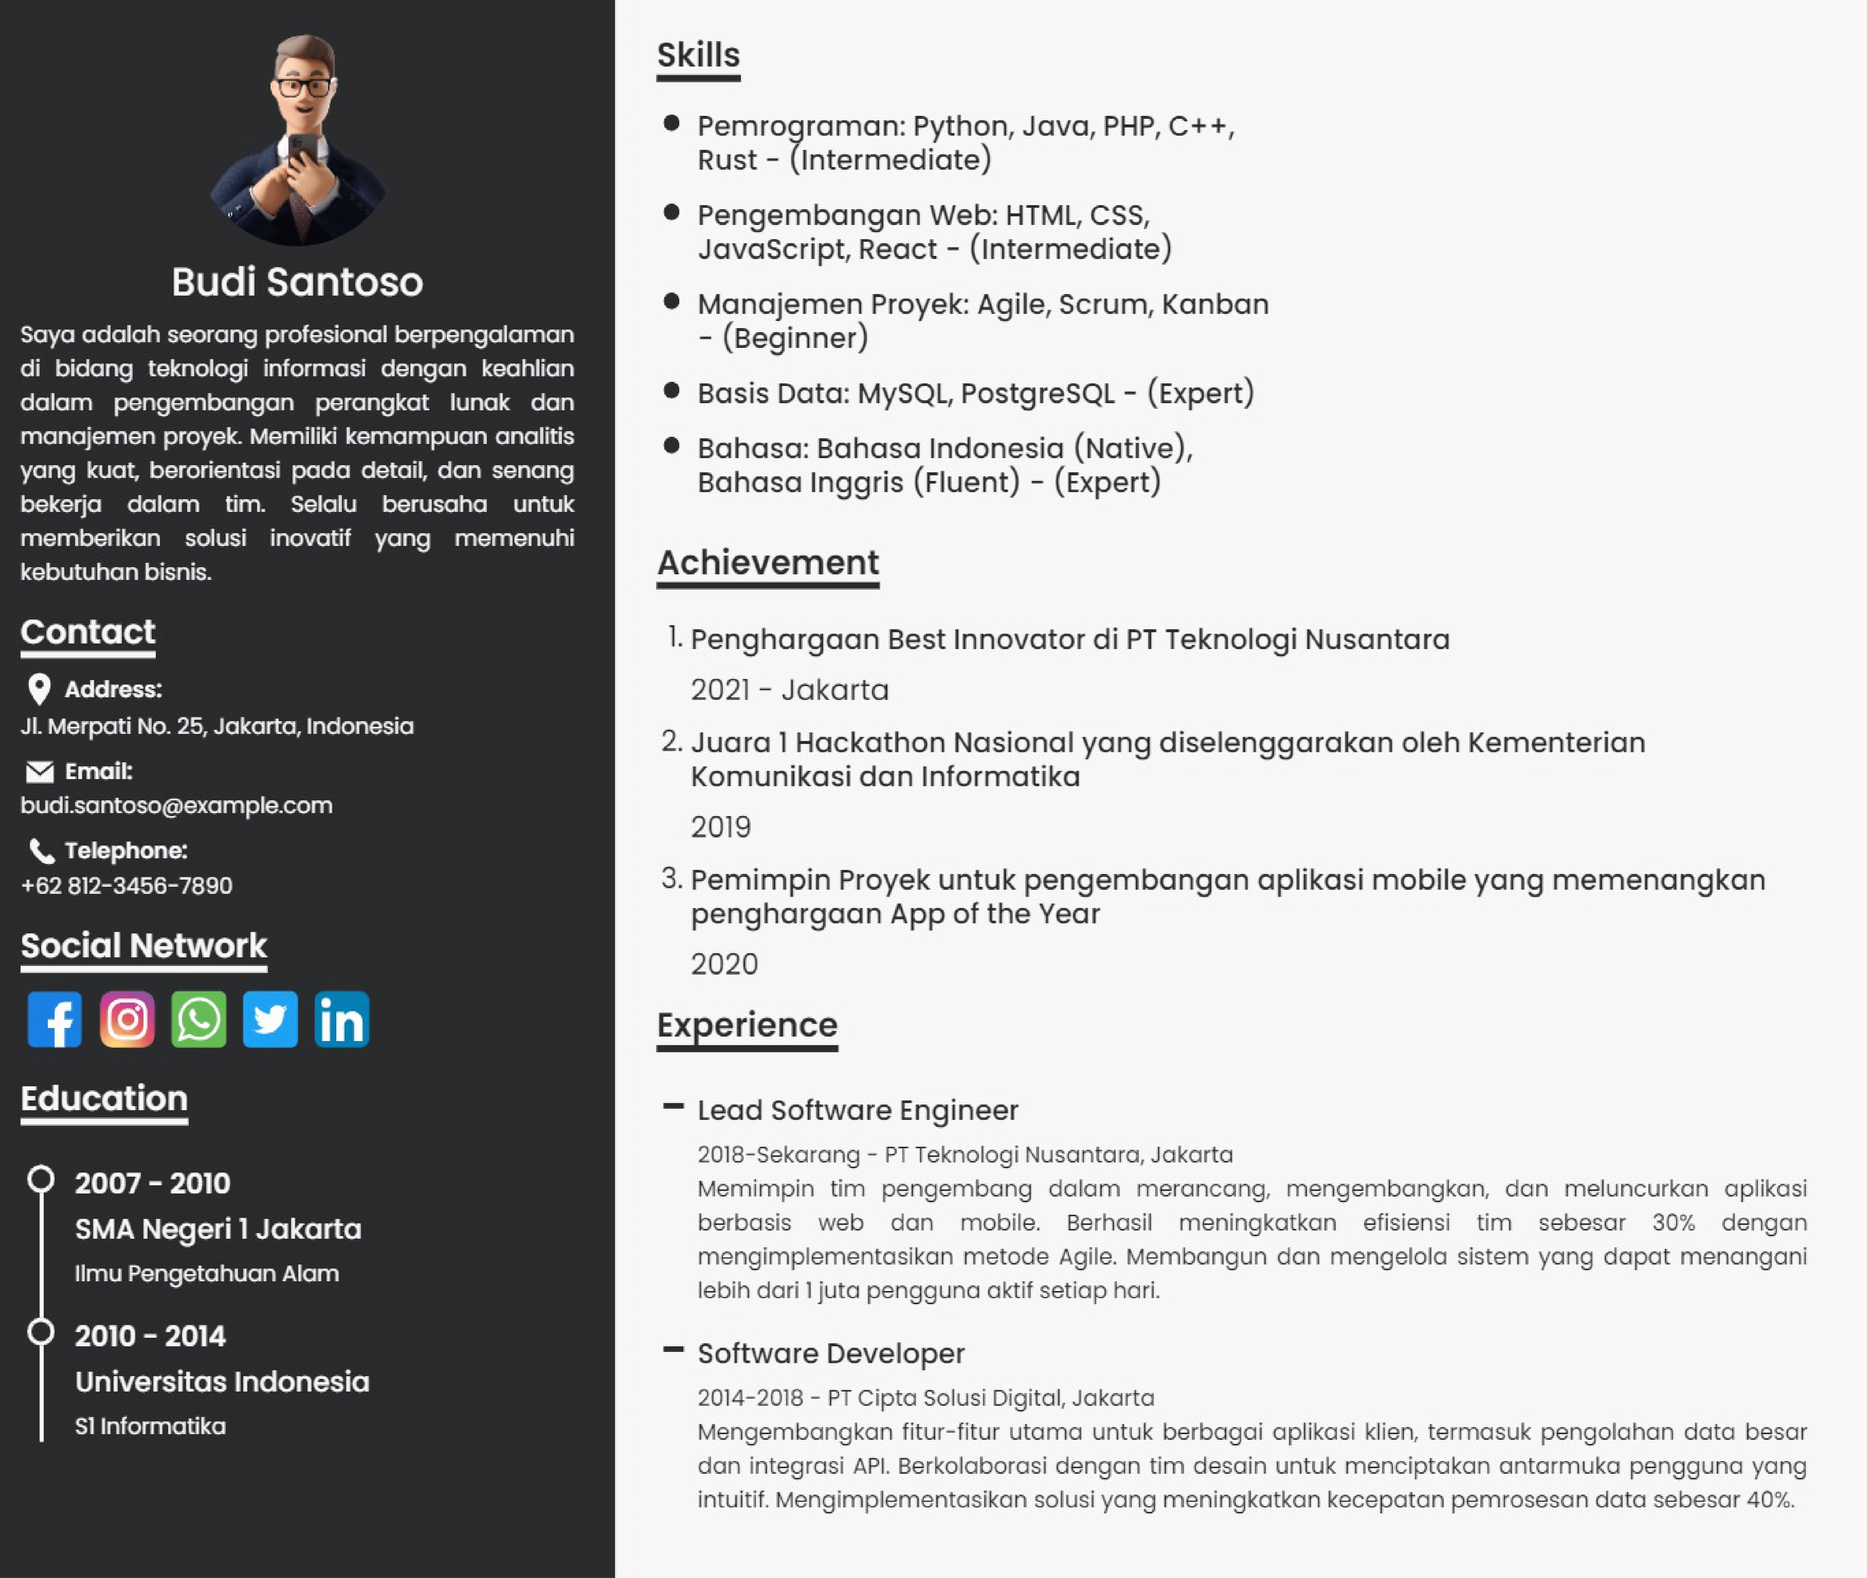
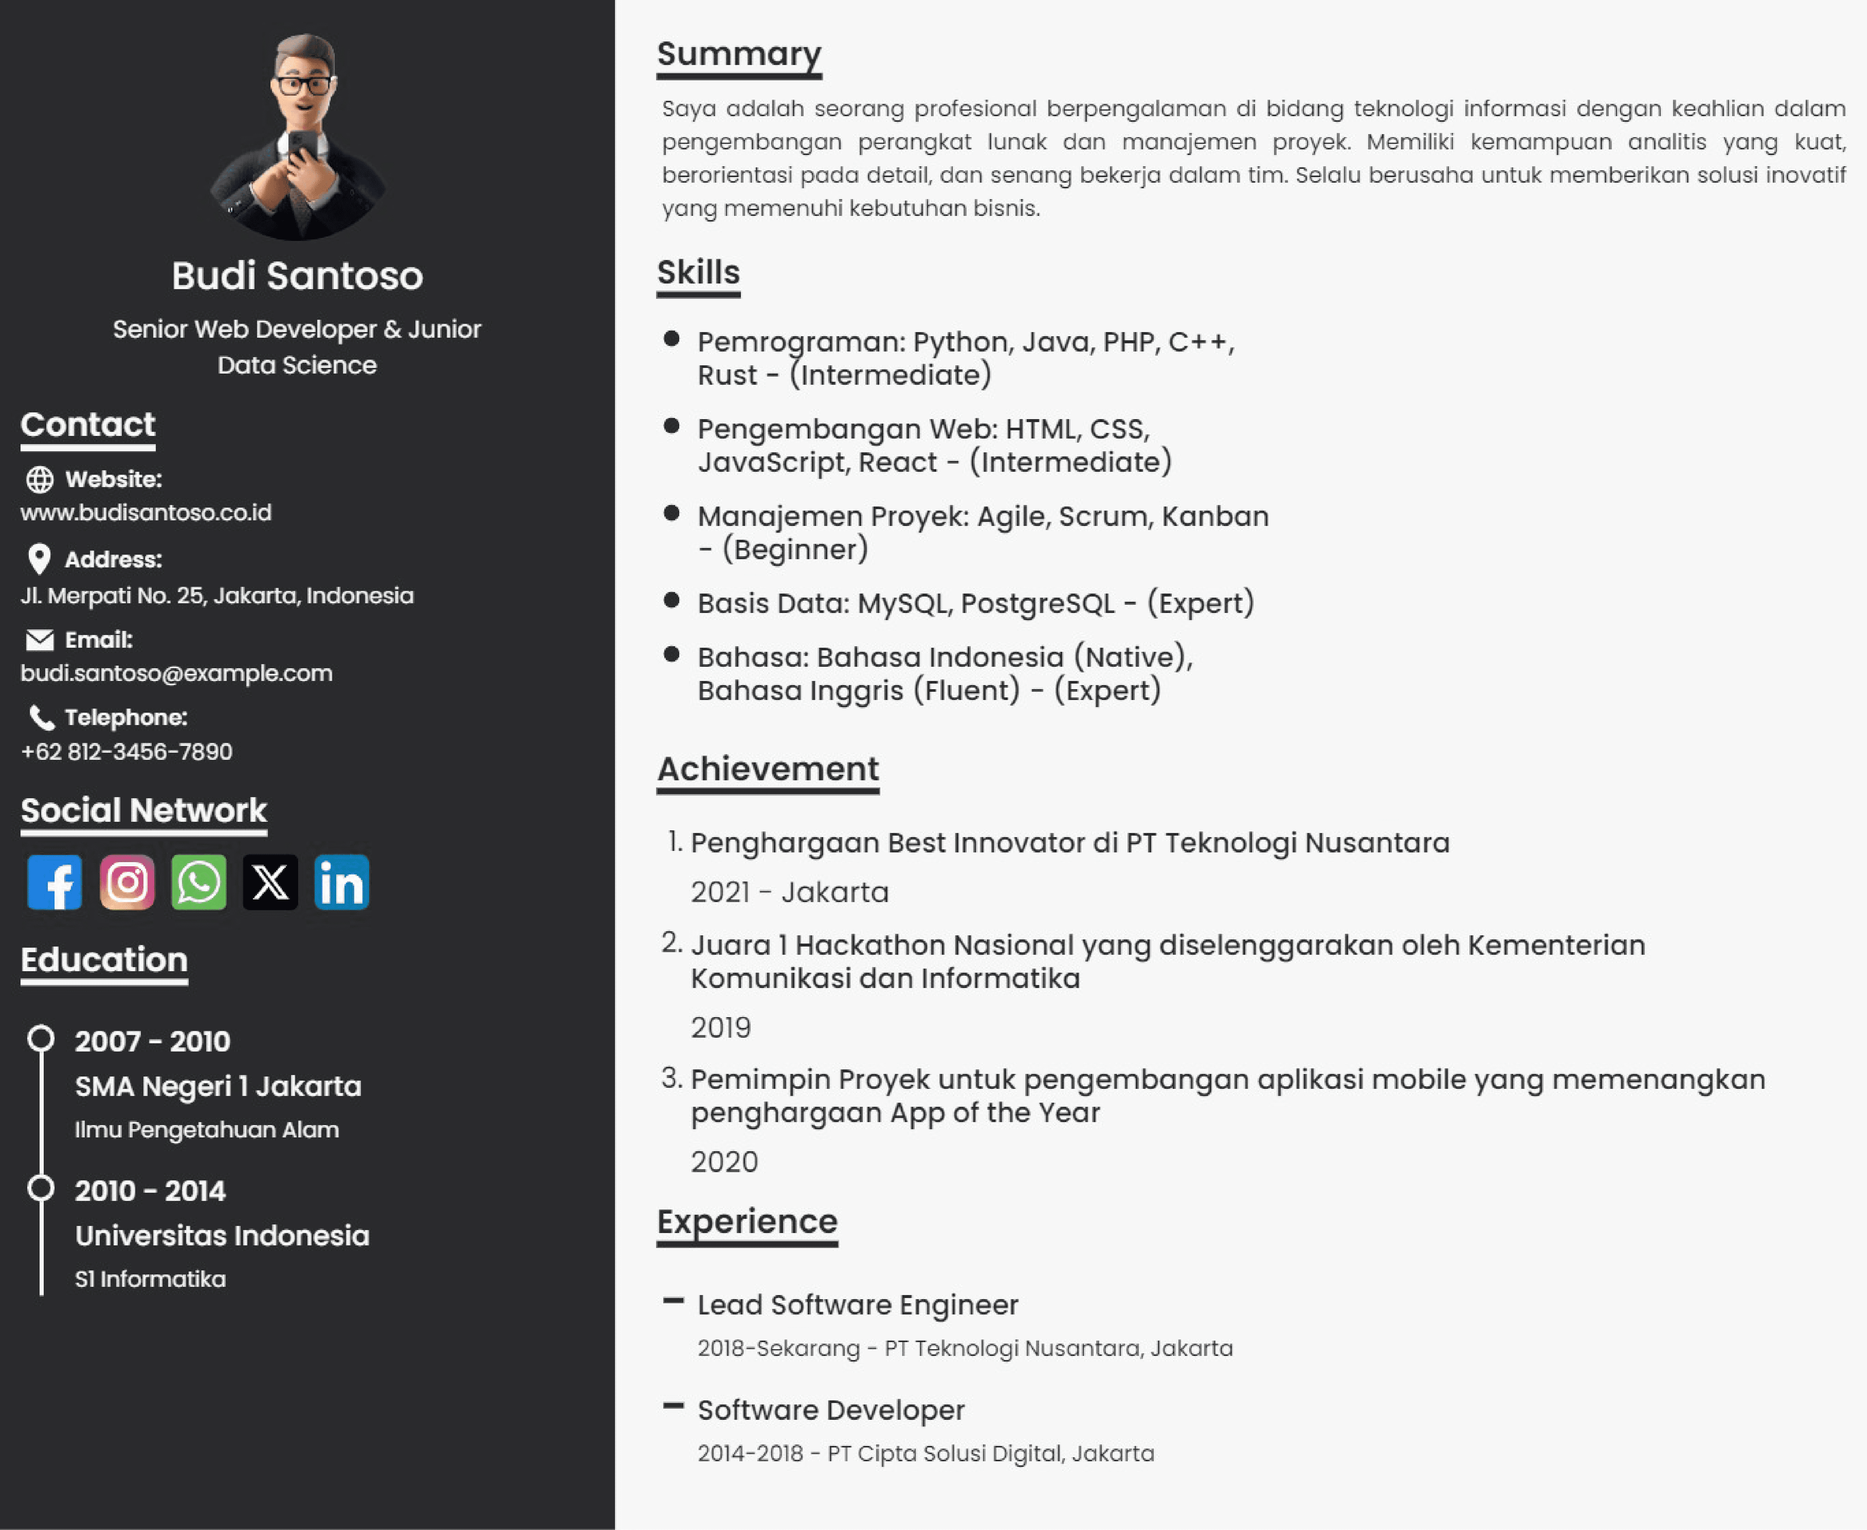
update description -> summary & vision -> career. and update example

Changed region(s): [[0.3434, 0.0312, 0.999, 0.9688], [0.0, 0.0312, 0.3122, 0.9062]]

diff --git a/show/templates/template-3.html b/show/templates/template-3.html
@@ -3,6 +3,11 @@
 {% load tags %}
 {% block 'style' %}{% static 'css/style-3.css' %}{% endblock %}
 {% block 'title' %}{{ user.first_name }} {{ user.last_name }}{% endblock %}
+{% block 'description' %}{{ data.summary }}{% endblock %}
+{% block 'og_title' %}{{ user.first_name }} {{ user.last_name }}{% endblock %}
+{% block 'og_description' %}{{ data.summary }}{% endblock %}
+{% block 'og_image' %}{{ data.photo }}{% endblock %}
+
 {% block 'attr' %}
 bg1={{ data.color|toObj:'bg-1' }}
 text1={{ data.color|toObj:'text-1' }}
@@ -17,8 +22,8 @@ id="riwayat-3"
     <div class="pt-4 my-container-2 text-center pb-2 bg-1" style="border-radius: 0 0px 10px 0">
       <img class="rounded-circle" src="{{ data.photo }}" alt="profile" width="150" height="150" data-aos="zoom-in"/>
       <span class="mt-2 h3 d-block" data-aos="fade-right">{{ user.first_name }} {{ user.last_name }}</span>
-      <p class="text-justify" data-aos="zoom-in">
-      {{ data.description }}
+      <p class="mx-auto w-75" data-aos="zoom-in" style="font-size: 1.1rem;">
+      {{ data.career }}
       </p>
     </div>
     <div class="my-container-2">
@@ -62,12 +67,12 @@ id="riwayat-3"
   </div>
   <!-- LEFT -->
   <div class="col-md-7 col-lg-8 pt-4 pb-4 my-container">
-    <!-- Visi Misi -->
-    {% if data.mision %}
-    <div id="visi-misi">
-      <h4 class="font-weight-bold">Vision</h4>
+    <!-- Summary -->
+    {% if data.summary %}
+    <div id="summary">
+      <h4 class="font-weight-bold">Summary</h4>
       <p class="text-justify pl-1 pr-1" data-aos="zoom-out">
-        {{ data.vision }}
+        {{ data.summary }}
       </p>
     </div>
     {% endif %}
@@ -116,7 +121,7 @@ id="riwayat-3"
       		<h5 data-aos="fade-left">{{ x.experience }}</h5>
       		<span class="d-block" data-aos="fade-left">{{ x.tahun }} - {{ x.tempat }}</span>
       		<p data-aos="fade-up">
-      		    {{ x.description }}
+      		    {{ x.career }}
       		</p>
             <hr />
             {% endfor %}

diff --git a/abdi/templates/career.html b/abdi/templates/career.html
@@ -1,33 +1,33 @@
 {% load static %}
-<!-- VISION -->
+<!-- Career -->
 <div>
   <h4 class="font-weight-bold">
-      Vision
-      <button class="btn btn-abdi btn-sm" data-toggle="modal" data-target="#updateVision">Edit</button>
+      Career
+      <button class="btn btn-abdi btn-sm" data-toggle="modal" data-target="#updateCareer">Edit</button>
   </h4>
   <div>
     <span class="d-block"> 
-      {% if data.vision %}
-      {{data.vision}} 
+      {% if data.career %}
+      {{data.career}} 
       {% else %}
       Tidak ada
       {% endif %}
     </span>
   </div>
   <!-- Modal -->
-  <div class="modal fade" id="updateVision" tabindex="-1" aria-labelledby="exampleModalLabel" aria-hidden="true">
+  <div class="modal fade" id="updateCareer" tabindex="-1" aria-labelledby="exampleModalLabel" aria-hidden="true">
     <div class="modal-dialog modal-dialog-centered">
       <div class="modal-content">
         <div class="modal-header">
-          <span class="modal-title h4" id="exampleModalLabel">Update Vision</span>
+          <span class="modal-title h4" id="exampleModalLabel">Update Career</span>
           <button type="button" class="close" data-dismiss="modal" aria-label="Close">
             <span aria-hidden="true">&times;</span>
           </button>
         </div>
         <div class="modal-body">
-          <form action="{% url 'update_vision' %}" method="POST" accept-charset="utf-8">
+          <form action="{% url 'update_career' %}" method="POST" accept-charset="utf-8">
             {% csrf_token %}
-            <textarea class="form-control" name="vision" id="vision" rows="8" cols="40" required="">{% if data.vision %}{{data.vision}}{% endif %}</textarea>
+            <textarea class="form-control" name="career" id="career" rows="8" cols="40" required="">{% if data.career %}{{data.career}}{% endif %}</textarea>
             <button type="submit" class="btn btn-primary mt-2">Edit</button>
         </form>
         </div>

diff --git a/show/templates/template-1.html b/show/templates/template-1.html
@@ -3,6 +3,11 @@
 {% load tags %}
 {% block 'style' %}{% static 'css/style-1.css' %}{% endblock %}
 {% block 'title' %}{{ user.first_name }} {{ user.last_name }}{% endblock %}
+{% block 'description' %}{{ data.summary }}{% endblock %}
+{% block 'og_title' %}{{ user.first_name }} {{ user.last_name }}{% endblock %}
+{% block 'og_description' %}{{ data.summary }}{% endblock %}
+{% block 'og_image' %}{{ data.photo }}{% endblock %}
+
 {% block 'attr' %}
 bg1={{ data.color|toObj:'bg-1' }}
 text1={{ data.color|toObj:'text-1' }}
@@ -17,8 +22,8 @@ id="riwayat-1"
     <div class="text-center">
       <img class="rounded-circle" src="{{ data.photo }}" alt="profile" width="150" height="150" data-aos="zoom-in"/>
       <span class="mt-2 h3 d-block" data-aos="fade-right">{{ user.first_name }} {{ user.last_name }}</span>
-      <p class="text-justify" data-aos="zoom-in">
-      {{ data.description }}
+      <p class="mx-auto w-75" data-aos="zoom-in" style="font-size: 1.1rem;">
+      {{ data.career }}
       </p>
     </div>
     <!-- About -->
@@ -60,12 +65,12 @@ id="riwayat-1"
   </div>
   <!-- RIGHT -->
   <div class="col-md-7 col-lg-8 pt-4 pb-4 my-container" id="right">
-    <!-- Visi Misi -->
-    {% if data.mision %}
-    <div id="visi-misi">
-      <h4 class="font-weight-bold">Vision</h4>
+    <!-- Summary -->
+    {% if data.summary %}
+    <div id="summary">
+      <h4 class="font-weight-bold">Summary</h4>
       <p class="text-justify pl-1 pb-1" data-aos="zoom-out">
-        {{ data.vision }}
+        {{ data.summary }}
       </p>
     </div>
     {% endif %}
@@ -119,7 +124,7 @@ id="riwayat-1"
             <h5 data-aos="fade-left">{{ x.experience }}</h5>
             <span class="d-block" data-aos="fade-left">{{ x.tahun }} - {{ x.tempat }}</span>
             <p data-aos="fade-up">
-                {{ x.description }}
+                {{ x.career }}
             </p>
           </li>
           {% endfor %}

diff --git a/show/templates/template-2.html b/show/templates/template-2.html
@@ -3,6 +3,11 @@
 {% load tags %}
 {% block 'style' %}{% static 'css/style-2.css' %}{% endblock %}
 {% block 'title' %}{{ user.first_name }} {{ user.last_name }}{% endblock %}
+{% block 'description' %}{{ data.summary }}{% endblock %}
+{% block 'og_title' %}{{ user.first_name }} {{ user.last_name }}{% endblock %}
+{% block 'og_description' %}{{ data.summary }}{% endblock %}
+{% block 'og_image' %}{{ data.photo }}{% endblock %}
+
 {% block 'attr' %}
 bg1={{ data.color|toObj:'bg-1' }}
 text1={{ data.color|toObj:'text-1' }}
@@ -17,8 +22,8 @@ id="riwayat-2"
     <div class="text-center">
       <img class="rounded-circle" src="{{ data.photo }}" alt="profile" width="150" height="150" data-aos="zoom-in"/>
       <span class="mt-2 h3 d-block" data-aos="fade-right">{{ user.first_name }} {{ user.last_name }}</span>
-      <p class="text-justify" data-aos="zoom-in">
-      {{ data.description }}
+      <p class="mx-auto w-75" data-aos="zoom-in" style="font-size: 1.1rem;">
+      {{ data.career }}
       </p>
     </div>
     <!-- About -->
@@ -58,12 +63,12 @@ id="riwayat-2"
   </div>
   <!-- RIGHT -->
   <div class="col-md-7 col-lg-8 pt-4 pb-4 my-container" id="right">
-    <!-- Visi Misi -->
-    {% if data.mision %}
-    <div id="visi-misi">
-      <h4 class="font-weight-bold">Vision</h4>
+    <!-- Summary -->
+    {% if data.summary %}
+    <div id="summary">
+      <h4 class="font-weight-bold">Summary</h4>
       <p class="text-justify pl-1 pr-1" data-aos="zoom-out">
-          {{ data.vision }}
+          {{ data.summary }}
       </p>
     </div>
     {% endif %}
@@ -112,7 +117,7 @@ id="riwayat-2"
       		<h5 data-aos="fade-left">{{ x.experience }}</h5>
       		<span class="d-block" data-aos="fade-left">{{ x.tahun }} - {{ x.tempat }}</span>
       		<p data-aos="fade-up">
-      		    {{ x.description }}
+      		    {{ x.career }}
       		</p>
             <hr />
             {% endfor %}

diff --git a/abdi/templates/summary.html b/abdi/templates/summary.html
@@ -1,33 +1,33 @@
 {% load static %}
-<!-- DESCRIPTION -->
+<!-- Summary -->
 <div>
   <h4 class="font-weight-bold">
-    Description
-    <button class="btn btn-abdi btn-sm" data-toggle="modal" data-target="#updateDescription">Edit</button>
+    Summary
+    <button class="btn btn-abdi btn-sm" data-toggle="modal" data-target="#updateSummary">Edit</button>
   </h4>
   <div>
     <span class="d-block">
-    {% if data.description %}
-    {{ data.description }}
+    {% if data.summary %}
+    {{ data.summary }}
     {% else %}
     Tidak ada
     {% endif %}
     </span>
   </div>
   <!-- Modal -->
-  <div class="modal fade" id="updateDescription" tabindex="-1" aria-labelledby="exampleModalLabel" aria-hidden="true">
+  <div class="modal fade" id="updateSummary" tabindex="-1" aria-labelledby="exampleModalLabel" aria-hidden="true">
     <div class="modal-dialog modal-dialog-centered">
       <div class="modal-content">
         <div class="modal-header">
-          <span class="modal-title h4" id="exampleModalLabel">Update Description</span>
+          <span class="modal-title h4" id="exampleModalLabel">Update Summary</span>
           <button type="button" class="close" data-dismiss="modal" aria-label="Close">
             <span aria-hidden="true">&times;</span>
           </button>
         </div>
         <div class="modal-body">
-          <form action="{% url 'update_des' %}" method="POST" accept-charset="utf-8">
+          <form action="{% url 'update_sum' %}" method="POST" accept-charset="utf-8">
             {% csrf_token %}
-            <textarea class="form-control" name="description" id="description" rows="8" cols="40">{{ data.description }}</textarea>
+            <textarea class="form-control" name="summary" id="summary" rows="8" cols="40">{{ data.summary }}</textarea>
             <button type="submit" class="btn btn-primary mt-2">Edit</button>
         </form>
         </div>

diff --git a/templates/layout/demo.html b/templates/layout/demo.html
@@ -6,17 +6,17 @@
     <div class="col-lg-3 col-md-4 mb-3">
       <h4 class="font-weight-bold">Template - 1</h4>
       <img class="img-fluid mb-2" src="{% static 'img/template-1.png' %}" alt="template-1" />
-      <button class="btn btn-dark btn-sm btn-block">Lihat</button>
+      <a href="/budisantoso/" class="btn btn-dark btn-sm btn-block">Lihat</a>
     </div>
     <div class="col-lg-3 col-md-4 mb-3">
       <h4 class="font-weight-bold">Template - 2</h4>
       <img class="img-fluid mb-2" src="{% static 'img/template-2.png' %}" alt="template-1" />
-      <button class="btn btn-dark btn-sm btn-block">Lihat</button>
+      <a href="/budisantoso2/" class="btn btn-dark btn-sm btn-block">Lihat</a>
     </div>
     <div class="col-lg-3 col-md-4">
       <h4 class="font-weight-bold">Template - 3</h4>
       <img class="img-fluid mb-2" src="{% static 'img/template-3.png' %}" alt="template-1" />
-      <button class="btn btn-dark btn-sm btn-block">Lihat</button>
+      <a href="/budisantoso3/" class="btn btn-dark btn-sm btn-block">Lihat</a>
     </div>
   </div>
   <!-- CAROUSEL DEMO -->

diff --git a/templates/base.html b/templates/base.html
@@ -5,6 +5,12 @@
 <html>
     <head>
         <meta http-equiv="content-type" content="text/html; charset=utf-8" />
+        <meta name="description" content="{% block 'description' %}{% endblock %}"">
+        <meta name="keywords" content="Resume, CV, Curriculum, Vitae, Online, Simple, PDF">
+        <meta name="author" content="Arenbi">      
+        <meta property="og:title" content="{% block 'og_title' %}{% endblock %}">
+        <meta property="og:description" content="{% block 'og_description' %}{% endblock %}">
+        <meta property="og:image" content="{% block 'og_image' %}{% endblock %}">
         <meta name="viewport" content="width=device-width, minimum-scale=1">
         <link rel="stylesheet" href="https://cdn.jsdelivr.net/npm/bootstrap@4.6.0/dist/css/bootstrap.min.css" integrity="sha384-B0vP5xmATw1+K9KRQjQERJvTumQW0nPEzvF6L/Z6nronJ3oUOFUFpCjEUQouq2+l" crossorigin="anonymous">
         <link rel="stylesheet" type="text/css" href="https://cdn.jsdelivr.net/npm/spectrum-colorpicker2/dist/spectrum.min.css">

diff --git a/templates/index.html b/templates/index.html
@@ -1,6 +1,11 @@
 {% extends 'base.html' %}
 {% load static %}
 {% block 'title' %}Kawoola{% endblock %}
+{% block 'description' %}Kawoola adalah website untuk membuat CV dengan mudah Dan dapat di akses melalui website dimanapun Dan kapanpun. Kawoola dibuat untuk memudahkan orang-orang Membuat CV dengan mudah, cepat Dan modern agar mereka bisa melamar pekerjaan dengan CV yang menarik.{% endblock %}
+{% block 'og_title' %}Kawoola{% endblock %}
+{% block 'og_description' %}Kawoola adalah website untuk membuat CV dengan mudah Dan dapat di akses melalui website dimanapun Dan kapanpun. Kawoola dibuat untuk memudahkan orang-orang Membuat CV dengan mudah, cepat Dan modern agar mereka bisa melamar pekerjaan dengan CV yang menarik.{% endblock %}
+{% block 'og_image' %}{% static 'img/animated-compress.gif' %}{% endblock %}
+
 {% block 'content' %}
 <!-- JUMBOTRON -->
 <div id="jumbotron">

diff --git a/templates/404.html b/templates/404.html
@@ -1,6 +1,10 @@
 {% extends 'base.html' %}
 {% load static %}
 {% block 'title' %}404 Not Found{% endblock %}
+{% block 'description' %}Kawoola adalah website untuk membuat CV dengan mudah Dan dapat di akses melalui website dimanapun Dan kapanpun. Kawoola dibuat untuk memudahkan orang-orang Membuat CV dengan mudah, cepat Dan modern agar mereka bisa melamar pekerjaan dengan CV yang menarik.{% endblock %}
+{% block 'og_title' %}Kawoola{% endblock %}
+{% block 'og_description' %}Kawoola adalah website untuk membuat CV dengan mudah Dan dapat di akses melalui website dimanapun Dan kapanpun. Kawoola dibuat untuk memudahkan orang-orang Membuat CV dengan mudah, cepat Dan modern agar mereka bisa melamar pekerjaan dengan CV yang menarik.{% endblock %}
+
 {% block 'content' %}
     <h4 style="text-align: center;margin: 150px 0;">404 Not found</h4>
 {% endblock %}

diff --git a/templates/faq.html b/templates/faq.html
@@ -1,6 +1,10 @@
 {% extends 'base.html' %}
 {% load static %}
 {% block 'title' %}FAQ - Kawoola{% endblock %}
+{% block 'description' %}Kawoola adalah website untuk membuat CV dengan mudah Dan dapat di akses melalui website dimanapun Dan kapanpun. Kawoola dibuat untuk memudahkan orang-orang Membuat CV dengan mudah, cepat Dan modern agar mereka bisa melamar pekerjaan dengan CV yang menarik.{% endblock %}
+{% block 'og_title' %}Kawoola{% endblock %}
+{% block 'og_description' %}Kawoola adalah website untuk membuat CV dengan mudah Dan dapat di akses melalui website dimanapun Dan kapanpun. Kawoola dibuat untuk memudahkan orang-orang Membuat CV dengan mudah, cepat Dan modern agar mereka bisa melamar pekerjaan dengan CV yang menarik.{% endblock %}
+
 {% block 'content' %}
 <div id="faq">
     <h2 class="font-weight-bold text-center">FAQ - Kawoola</h2>

diff --git a/static/js/main.js b/static/js/main.js
@@ -222,12 +222,12 @@ $('.btn-exp').click(function(){
     exp = parent.find('.experience').html()
     t = parent.find('.tahun').html()
     tpt = parent.find('.tempat').html()
-    des = parent.find('.description').html()
+    sum = parent.find('.summary').html()
     e = $('#form-exp')
     e.find('#experience').val(exp)
     e.find('#tahun').val(t)
     e.find('#tempat').val(tpt)
-    e.find('#description').val(des)
+    e.find('#summary').val(sum)
     e.attr('action', e.attr('update'))
     e.find('button').html("Edit")
     index = $(this).attr('index')
@@ -240,7 +240,7 @@ $('.add-exp').click(function(){
   e.find('#experience').val("")
   e.find('#tahun').val("")
   e.find('#tempat').val("")
-  e.find('#description').val("")
+  e.find('#summary').val("")
   e.attr('action', e.attr('create'))
   e.find('button').html("Add")
 })

diff --git a/abdi/templates/profile.html b/abdi/templates/profile.html
@@ -32,7 +32,7 @@
           <form action="{% url 'update_profile' %}" method="POST" accept-charset="utf-8" id="form-profile">
             {% csrf_token %}
             <label for="name">Name</label>
-            <input type="text" class="mb-2 form-control" required="" name="name" id="name" value="{{ user.first_name }} {{ user.last_name }}"/>
+            <input type="text" class="mb-2 form-control" required="" name="name" id="name" value="{{ user.first_name }}{{ user.last_name }}"/>
             <label for="website">Website</label>
             <input type="text" class="mb-2 form-control" name="website" id="website" value="{{ data.website }}"/>
             <label for="address">Address</label>
